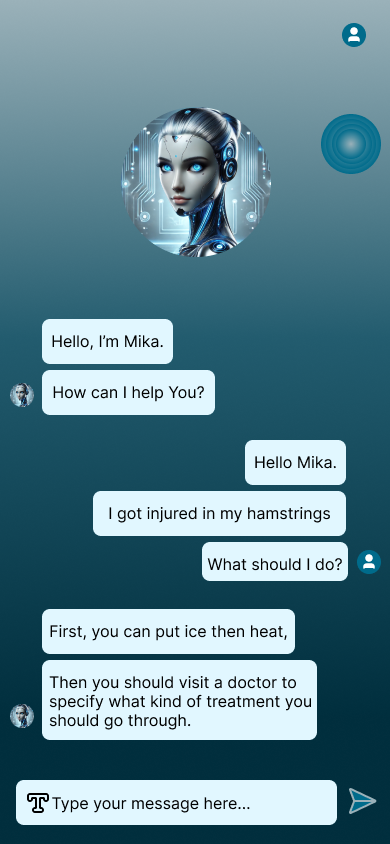
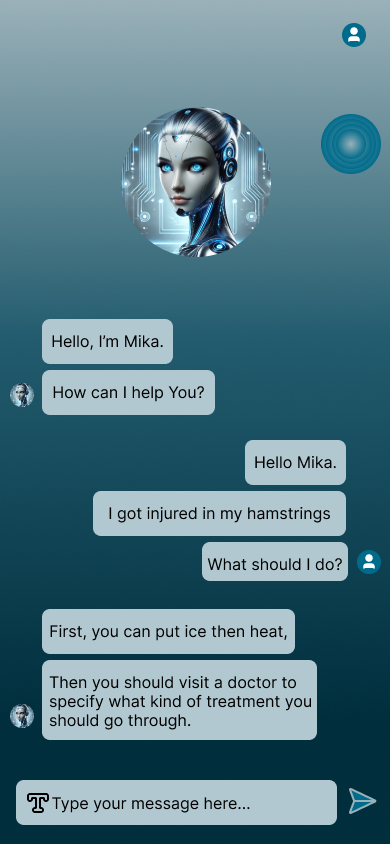
Adding a code to ReadMe

Changed region(s): [[0.0923, 0.5237, 0.8923, 0.8934], [0.0923, 0.3697, 0.5538, 0.4929], [0.0308, 0.9242, 0.8615, 0.9858]]

diff --git a/README.md b/README.md
@@ -92,7 +92,7 @@ AI Athletic Performance helps athletes detect and fix their running technique, g
 
 - This project uses Mediapipe(https://mediapipe-studio.webapps.google.com/studio/demo/pose_landmarker) and OpenCV(https://opencv.org/) to analyze athletes' movements and detect their performance in real time and to give accurate photo finish timing. It also integrates OpenAI(https://openai.com/index/openai-api/) to provide smart predictions and feedback, helping athletes improve their running technique, get accurate timing, and plan for future competitions.
 
-| Getting in a human body detection  |
+| Getting into a human body detection  |
 | --- |
 | ![code](./readme/code.png) |
 
